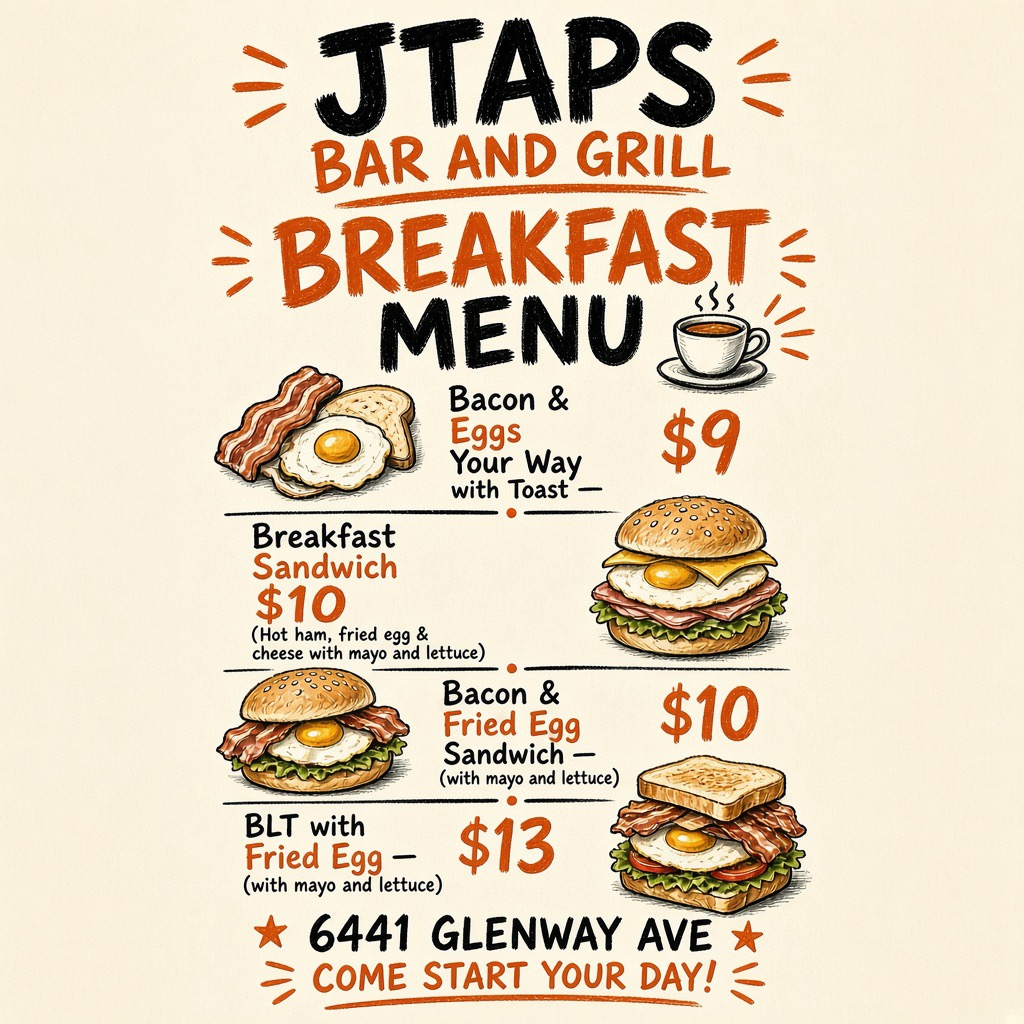
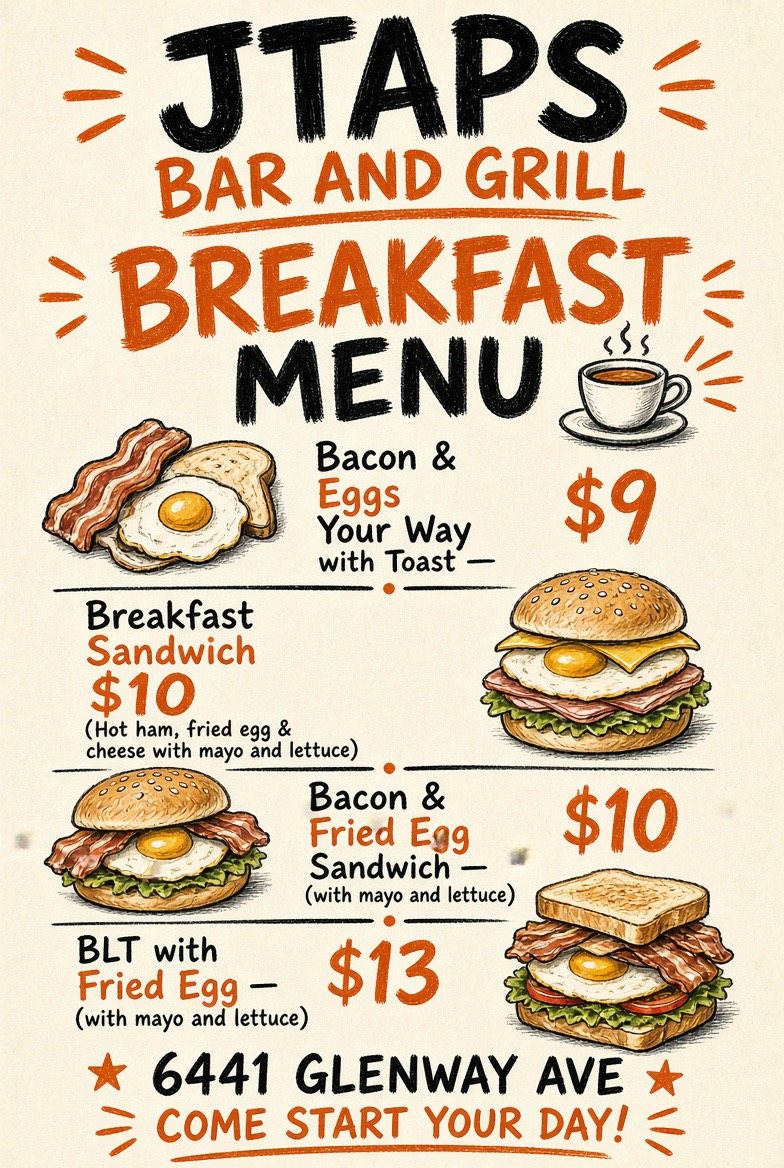
Fix brunch menu lightbox on mobile and refresh menu image cache.

diff --git a/src/styles/bengals-brunch.css b/src/styles/bengals-brunch.css
@@ -172,20 +172,25 @@
   pointer-events: none;
 }
 
-.bengals-brunch-page .bb-menu-lightbox {
+/* Lightbox is moved to document.body — do not nest under .bengals-brunch-page in CSS */
+.bb-menu-lightbox {
   position: fixed;
   inset: 0;
-  z-index: 9999;
-  display: flex;
+  z-index: 10050;
+  display: none;
   align-items: stretch;
   justify-content: center;
 }
 
-.bengals-brunch-page .bb-menu-lightbox[hidden] {
-  display: none;
+.bb-menu-lightbox.is-open {
+  display: flex;
 }
 
-.bengals-brunch-page .bb-menu-lightbox__backdrop {
+body.bb-menu-lightbox-open {
+  overflow: hidden;
+}
+
+.bb-menu-lightbox__backdrop {
   position: absolute;
   inset: 0;
   border: none;
@@ -193,7 +198,7 @@
   cursor: pointer;
 }
 
-.bengals-brunch-page .bb-menu-lightbox__panel {
+.bb-menu-lightbox__panel {
   position: relative;
   z-index: 1;
   width: 100%;
@@ -208,7 +213,7 @@
   pointer-events: none;
 }
 
-.bengals-brunch-page .bb-menu-lightbox__close {
+.bb-menu-lightbox__close {
   pointer-events: auto;
   align-self: flex-end;
   flex-shrink: 0;
@@ -223,7 +228,7 @@
   cursor: pointer;
 }
 
-.bengals-brunch-page .bb-menu-lightbox__scroll {
+.bb-menu-lightbox__scroll {
   pointer-events: auto;
   flex: 1;
   min-height: 0;
@@ -235,12 +240,19 @@
   border-radius: 8px;
 }
 
-.bengals-brunch-page .bb-menu-lightbox__scroll img {
-  width: 100%;
-  max-width: min(900px, 100%);
-  height: auto;
+.bb-menu-lightbox__scroll img {
   display: block;
+  width: auto;
+  height: auto;
+  max-width: none;
+  min-width: 100%;
   border-radius: 4px;
+  touch-action: pan-x pan-y pinch-zoom;
+}
+
+.bb-menu-zoom-trigger {
+  -webkit-tap-highlight-color: transparent;
+  touch-action: manipulation;
 }
 
 @media (min-width: 768px) {
@@ -248,8 +260,18 @@
     display: none;
   }
 
-  .bengals-brunch-page .bb-menu-lightbox__scroll img {
-    max-width: min(720px, 92vw);
+  .bb-menu-lightbox__scroll img {
+    min-width: min(900px, 92vw);
+    max-width: min(1200px, 96vw);
+    margin: 0 auto;
+  }
+}
+
+@media (max-width: 767px) {
+  .bb-menu-lightbox__scroll img {
+    /* Full pixel width so guests can scroll/pinch to read menu text */
+    min-width: 100vw;
+    width: max(100vw, 600px);
   }
 }
 

diff --git a/src/data/featuredGame.ts b/src/data/featuredGame.ts
@@ -10,6 +10,8 @@ export const featuredGame = {
   offer: "Mimosas, Bloody Marys, and a brunch menu",
   brunchPath: "/bengals-brunch",
   brunchMenuImage: "/images/jtaps-brunch-menu.jpg",
+  /** Bump when replacing the JPG so browsers fetch the new file. */
+  brunchMenuImageVersion: 2,
   /** Midnight Monday ET, after the Sunday watch party. */
   hideAfter: "2026-11-09T05:00:00.000Z",
 };
